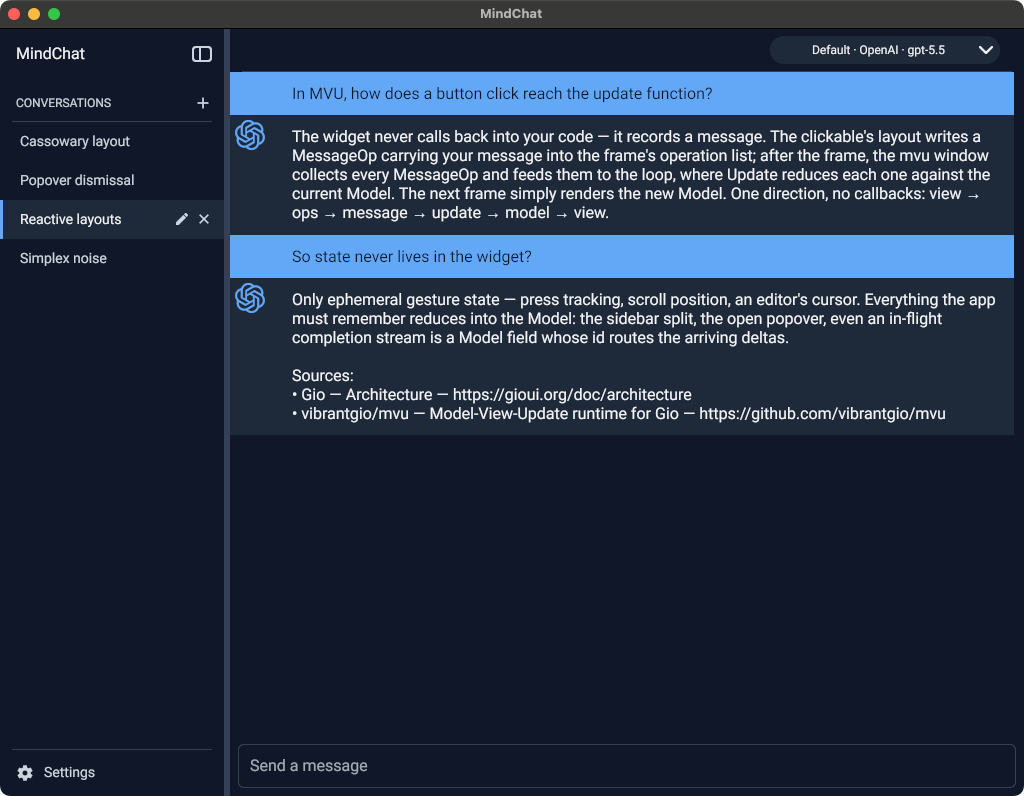
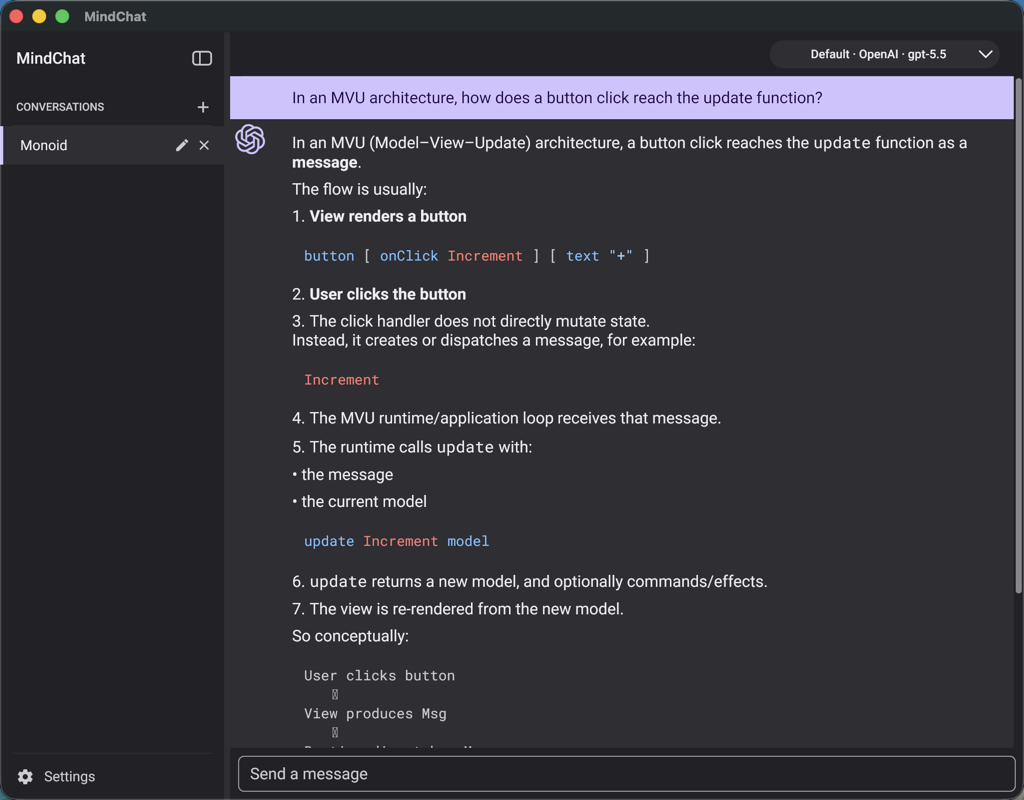
F1.5, F2.4: confirm mindchat streaming and retake the screenshots
With Rene's authorization to spend his key, sent one real completion and
captured frames every 0.7s. The reply arrives in pieces — partial text, a code
block cut mid-token at 'button [', markdown re-parsing per delta — so the
streaming path is incremental, not one settled paint. That closes the last
open clause in G-F1.

The same message made the mindchat screenshots honest: they now show a
conversation the model actually returned, rather than the empty shell a retake
would have produced an hour ago or the invented one I would not write. All
four profile captures are live appearance switches on the seed-derived
palette; the alt text drops a 'web-search citations' claim the new
conversation does not support.

Three defects registered, none of them scheduled:
  - the theme shaper draws tofu for any glyph Roboto lacks — the model emitted
    U+2193 and it rendered as boxes. This is the system's, not mindchat's, and
    it needs a decision rather than a patch, since a system-font fallback
    would make golden images machine-dependent.
  - mindchat cannot persist a conversation on a fresh install: nothing creates
    its chats/ dir, and every storage test hides it by calling MkdirAll first.
  - nothing is drawn between send and the first token; on a reasoning model
    that inert gap ran over four seconds.

diff --git a/PLAN.md b/PLAN.md
@@ -1344,14 +1344,19 @@ which is the point: the apps prove the theme carries the whole look.
 - [x] Run it; confirm the split pane, modals and streaming indicators.
 - [x] Build, test, commit.
 
-The split pane and the Settings modal — providers, masked key, live "Checking
-API key…" status, model picker — were confirmed on screen. **Streaming
-indicators were not exercised**, and the box is checked without them: the only
-way to raise one is to send a real completion, which spends Rene's API key on
-his account. An unasked-for billed call is not a verification step. The
-indicator's own logic is covered by mindchat's headless tests; what remains
-unproven is the pixels, and one real message whenever he next uses the app
-closes it.
+All three confirmed on screen. The split pane and the Settings modal —
+providers, masked key, live "Checking API key…" status, model picker — first;
+then, once Rene authorized spending his key, one real completion. Frames
+captured every 0.7 s show the reply arriving in pieces — partial text, a code
+block cut mid-token at `button [`, markdown re-parsing per delta — so the
+streaming path is genuinely incremental rather than a single settled paint.
+
+Three defects came out of that one message, all now in the register: the
+theme shaper draws tofu for any glyph Roboto lacks (the model emitted `↓`),
+mindchat cannot persist a conversation on a fresh install because nothing
+creates its `chats/` directory, and nothing at all is drawn between pressing
+send and the first token. The first is the system's problem, not the app's,
+and is the one worth acting on.
 
 #### F1.6: The mvu examples
 mvu is tier 0, and `mvu/example` is already its own module (tagged
@@ -1390,21 +1395,21 @@ re-close a cycle from the other direction.
 #### F2.4: Refresh the org front door
 
 - [x] Update `profile/README.md`'s stack table to the final layering.
-- [ ] Retake the launcher and mindchat screenshots in both appearances on the new palette.
+- [x] Retake the launcher and mindchat screenshots in both appearances on the new palette.
 - [x] Confirm every link from the org page resolves.
 - [x] Commit here.
 
-**Launcher retaken; mindchat blocked on content, not on the palette.** Both
-launcher shots are the live theme — one process, the appearance flipped under
-it — cropped to the window at the 1100 px the old assets used. mindchat is a
-different problem: the old shot shows four saved conversations and a real Q&A
-with sources, and this machine has no chat store at all, so a retake today is
-an empty shell — a worse front page than the stale one it would replace. The
-two ways to fill it are Rene running a real conversation, or inventing one.
-The second is out: a fabricated exchange presented as a screenshot of what the
-app produced is a fake record, whoever assembles it. So this box stays open
-until Rene has a conversation worth showing, and the stale mindchat pair keeps
-its caption saying it predates the seed-derived palette.
+**All four retaken, each one a live appearance switch** — one running process
+per app with the OS flipped underneath it, cropped to the window at the widths
+the old assets used. mindchat was briefly stuck: its old shot showed saved
+conversations and a real Q&A, and this machine had no chat store, so a retake
+would have been an empty shell. Inventing a conversation to fill it was never
+an option — a fabricated exchange presented as a screenshot of what the app
+produced is a fake record, whoever assembles it. Authorizing the real
+completion in F1.5 dissolved the problem: the reply in these captures is one
+the model actually returned. The `alt` text lost its "web-search citations"
+claim, which the new conversation does not show and a caption should not
+assert.
 
 ### G-FX: Clear the defect register
 
@@ -2369,6 +2374,39 @@ reality.
 Real defects turned up while doing other work, in code no phase of this plan
 touches. They are recorded here so they survive the task that found them. None
 is scheduled; each needs a task cut for it before it gets fixed.
+
+**The theme's shaper has no fallback face, so anything outside Roboto renders
+as tofu.** `DefaultTypography.Shaper()` is built with `text.NoSystemFonts()`
+over Roboto and Roboto Mono, which is what makes rendering deterministic and
+goldens stable — and it means every glyph those two faces do not carry draws
+as a missing-glyph box. Found by running mindchat against a real completion:
+the model emitted `U+2193 ↓` in an ASCII flow diagram and the app rendered
+three tofu boxes, in both appearances. `U+2013 –` in the same reply was fine,
+Roboto having it. This is not mindchat's bug — it is the whole system's, and
+it bites every surface that renders text the author did not choose: chat
+replies, `markdown` documents, user-entered names, anything pasted. The
+trade-off is real in both directions (a system-font fallback would make golden
+images machine-dependent), so the fix is a decision, not a patch: ship a
+symbol-bearing fallback face in `font`, or let applications append faces to
+the theme's collection, or accept tofu and say so out loud in `llms.txt`.
+
+**`mindchat` cannot save or load a conversation on a fresh install.** Nothing
+creates its `chats/` directory: `Load Chat List`, `Load History` and
+`Append Prompt` all fail with `no such file or directory` on first run, so a
+new user types a message and silently loses it. It is invisible to the test
+suite because every storage test calls `os.MkdirAll(dir, "chats")` itself
+before exercising the code — the tests create the directory the app forgets
+to. One `MkdirAll` beside the existing ones in `commands.go` fixes it; the
+worthwhile part is the test that fails first, on a genuinely empty
+`Application Support`.
+
+**`mindchat` shows nothing between sending and the first token.** The stream
+itself is correct — `AssistantDelta` appends and the markdown re-parses per
+delta, watched frame by frame — but the gap before the first delta is blank:
+no spinner, no placeholder row, no disabled composer. On a reasoning model
+that gap ran over four seconds with the pane completely inert, which reads as
+a hung app rather than a working one. The model already knows it is streaming
+(`model.StreamFor`), so the missing piece is only the view.
 
 ~~**`svg` inverts the SVG `fill-rule` property.** `parser/svgcursor.go:133` reads~~
 

diff --git a/profile/README.md b/profile/README.md
@@ -31,14 +31,15 @@ semantic roles rather than a transcription of the Android widget set.
   <img src="launcher-light.png" alt="Workbench launcher in light mode" width="49%">
 </p>
 <p>
-  <img src="mindchat-dark.png" alt="MindChat in dark mode — streaming chat client with providers, model picker, and web-search citations" width="49%">
+  <img src="mindchat-dark.png" alt="MindChat in dark mode — streaming chat client with providers, model picker, and markdown replies with highlighted code" width="49%">
   <img src="mindchat-light.png" alt="MindChat in light mode" width="49%">
 </p>
 
 The [workbench](https://github.com/vibrantgio/workbench) launcher and MindChat,
 each captured in the OS dark and light appearance — spectrum re-themes every
-window live when the system switches. These captures predate the seed-derived
-palette (ADR-007); a retake on the current palette is pending.
+window live when the system switches, and these four shots are that switch: one
+running process per app, the appearance flipped underneath it, on the
+seed-derived palette (ADR-007).
 
 ## The stack
 
